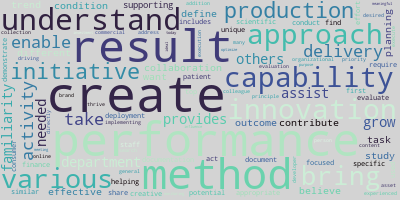
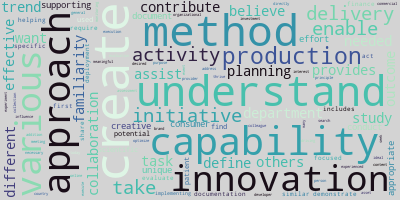
parsed mono-grams down to assist

diff --git a/nlp_main.py b/nlp_main.py
@@ -311,8 +311,10 @@ def clean_for_nlp(series_of_interest):
                                             'vacation', 'sick', 'january', '2022', 'tiger', 'global', 'get', 'done',
                                             'top', 'priority', 'internally', 'externally', 'performance', 'indicator',
                                             'continue', 'grow', 'faculty', 'staff', 'bring', 'closer', 'result',
-                                            'virtual', 'assistant', 'approved', 'condition', 'save', 'money']))) + ds_skills_combined
-    
+                                            'virtual', 'assistant', 'approved', 'condition', 'save', 'money', 'create',
+                                            'understand', 'various', 'production', 'activity', 'take', 'department', 'provides',
+                                            'familiarity', 'others', 'assist']))) + ds_skills_combined
+    ''
     
     stop_words = nltk.corpus.stopwords.words('english') + additional_stopwords + ds_cred_terms + ds_prof_skill_terms + ds_soft_skill_terms + ds_tech_skill_terms
     
@@ -562,7 +564,7 @@ def visualize_word_clouds(terms_for_nlp):
 #     'collaborate' and 'collaboratively' and 'work together' and 'work closely'; all numbers (1 vs one);
 #     'cloud' and 'cloudbased'; 'gcp' into google cloud platform;  'sa' back into 'sas'; scrub the alphabetical lists;
 #     'speech recognition' to 'nlp'; 'ai' 'ml' and 'aiml'; 'latest', 'newest', 'cutting edge'; 'recommender' and 'recommendation
-#     in the systems;'making decison' bigram to 'decisionmaking'
+#     in the systems;'making decison' bigram to 'decisionmaking'; 'approach' and 'method' and all cousins
 # consider a swarm plot for ....something, with job title or skill along the x_axis and some count/value along the y-axis,
   # maybe count of ds skills FOR THE UNICORN INDEX; yes, count the number of skills cited in each job listing, parsed by job title (which
   # has been collapsed and simplified)
@@ -693,6 +695,7 @@ ds_tech_skill_terms = ['ab',
                      'application',
                      'applied', 
                      'applying',
+                     'approach',
                      'architect',
                      'architecting',
                      'architecture',
@@ -998,6 +1001,8 @@ ds_soft_skill_terms = ['ad',
                      'improvement',
                      'independently',
                      'individual', 
+                     'initiative',
+                     'innovation',
                      'intelligence',
                      'intellectual', 
                      'intellectually',
@@ -1082,6 +1087,7 @@ ds_prof_skill_terms = ['ability',
                        'decisionmaking',
                        'deep', 
                        'deliver', 
+                       'delivery',
                        'delivering',
                        'demonstrated', 
                        'decision',
